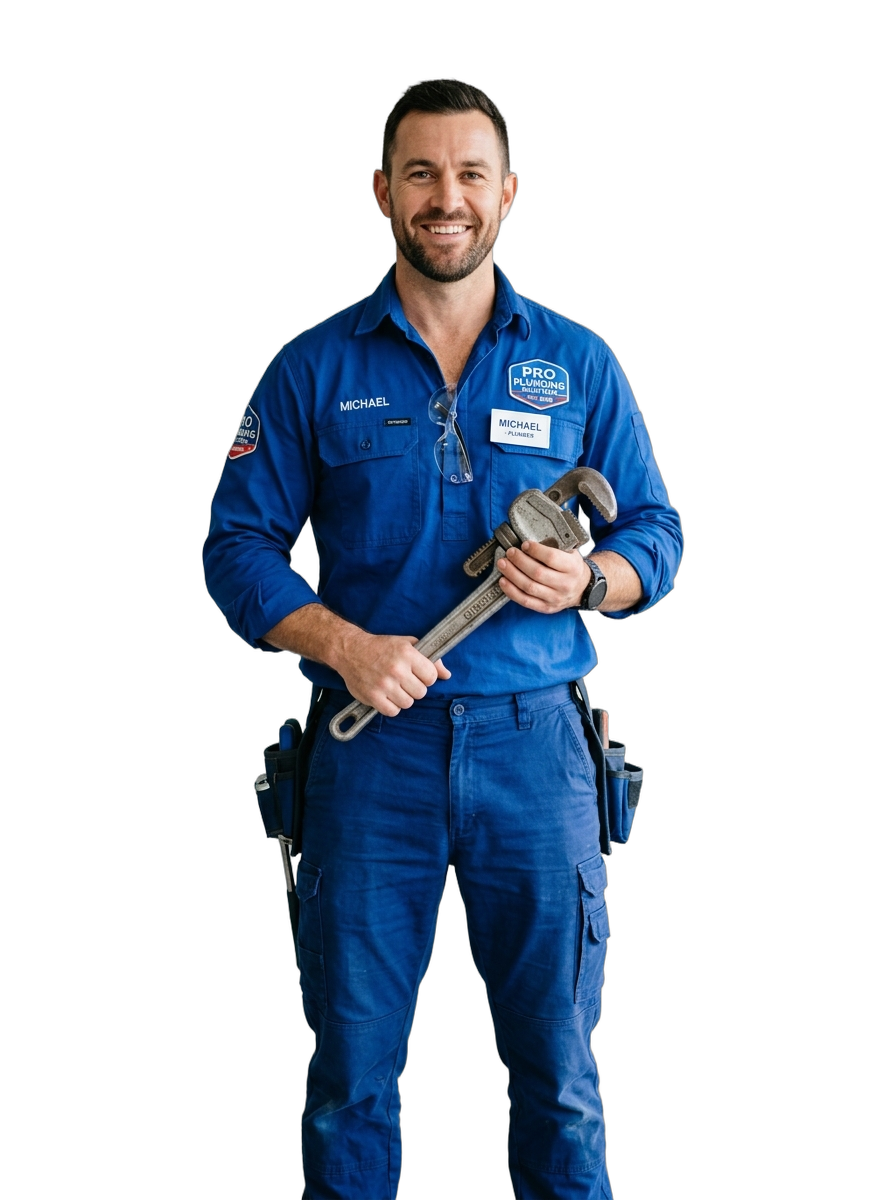
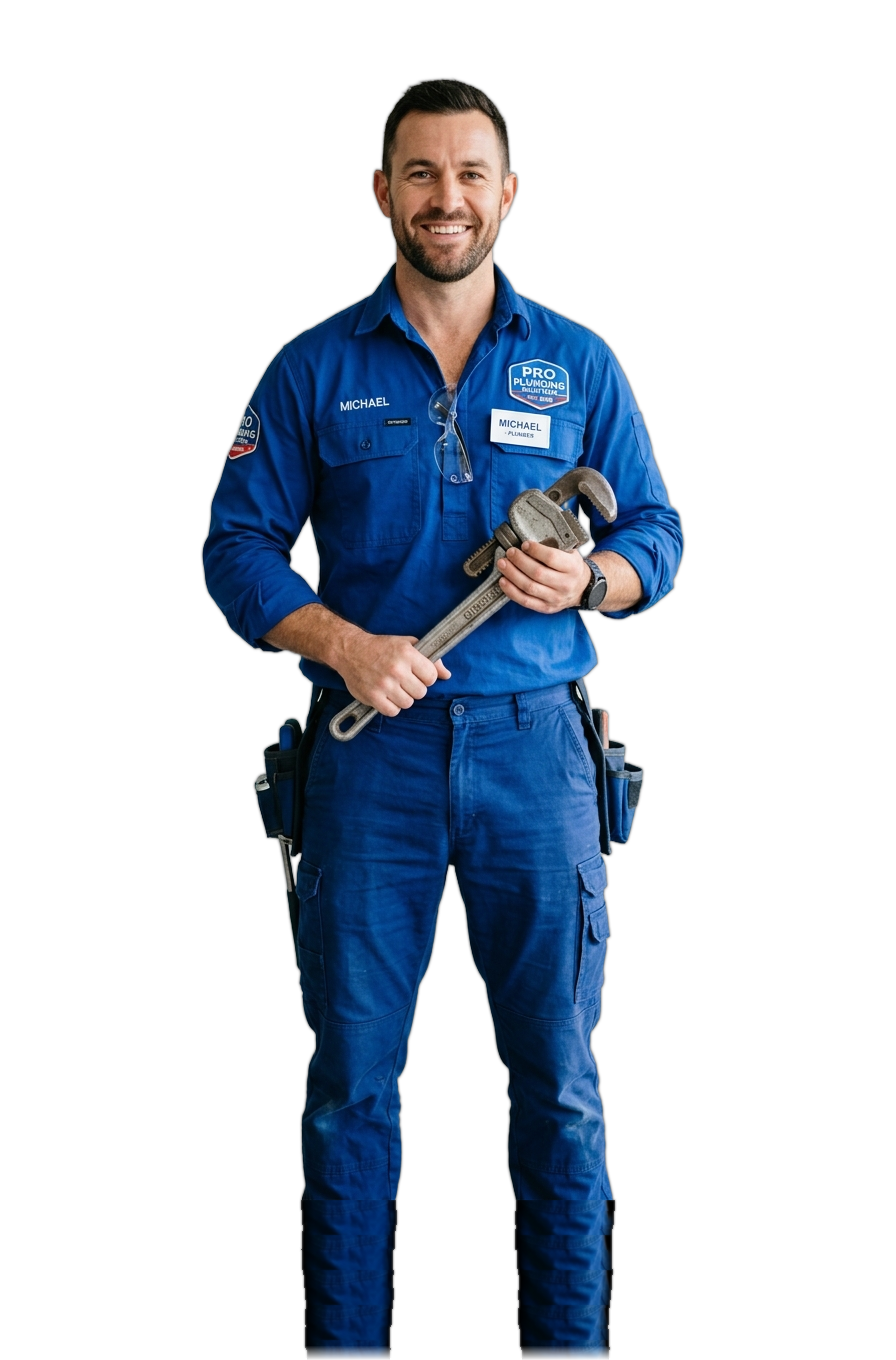
Fix hero plumber grounded layout and fully recreate shop hero fixture with responsive styling

Changed region(s): [[0.2188, 0.0308, 0.7812, 1.0]]

diff --git a/css/style.css b/css/style.css
@@ -382,23 +382,26 @@ button, input, select, textarea {
 .home-hero {
   position: relative;
   background: radial-gradient(circle at 75% 35%, #0e4c73 0%, #093751 55%, #052132 100%);
-  min-height: 600px;
+  min-height: 590px;
   display: flex;
-  align-items: center;
+  align-items: stretch;
   color: #ffffff;
-  padding: 50px 0 0;
+  padding: 40px 0 0;
   overflow: hidden;
 }
 
 .hero-grid {
   display: grid;
-  grid-template-columns: 1.1fr 1fr 1.1fr;
-  align-items: center;
+  grid-template-columns: 1.15fr 1fr 1.15fr;
+  align-items: stretch;
   gap: 20px;
+  width: 100%;
 }
 
 .hero-text-col {
   z-index: 2;
+  align-self: center;
+  padding: 20px 0 35px;
 }
 
 .hero-subtitle {
@@ -447,12 +450,20 @@ button, input, select, textarea {
   display: flex;
   justify-content: center;
   align-items: flex-end;
+  align-self: flex-end;
   z-index: 2;
+  margin-bottom: 0;
+  padding-bottom: 0;
+  line-height: 0;
+  position: relative;
 }
 
 .hero-plumber-img {
-  max-height: 540px;
-  object-fit: contain;
+  display: block;
+  max-height: 600px;
+  width: auto;
+  margin-bottom: 0;
+  vertical-align: bottom;
   filter: drop-shadow(0 15px 30px rgba(0, 0, 0, 0.4));
 }
 
@@ -460,6 +471,8 @@ button, input, select, textarea {
   z-index: 2;
   display: flex;
   justify-content: flex-end;
+  align-self: center;
+  padding: 20px 0 35px;
 }
 
 .hero-quote-card {
@@ -2310,24 +2323,41 @@ button, input, select, textarea {
    Shop Page
    ========================================================================== */
 .shop-hero-section {
-  background: linear-gradient(135deg, #093751 0%, #062b3f 100%);
+  background: radial-gradient(circle at 75% 45%, #0e4c73 0%, #093751 55%, #052132 100%);
   color: #ffffff;
-  padding: 50px 0;
+  padding: 60px 0 30px;
   position: relative;
   overflow: hidden;
 }
 
 .shop-hero-grid {
   display: grid;
-  grid-template-columns: 1fr 1fr;
-  gap: 30px;
+  grid-template-columns: 1.1fr 1fr;
+  gap: 36px;
   align-items: center;
 }
 
+.shop-hero-img-col {
+  display: flex;
+  justify-content: center;
+  align-items: center;
+  position: relative;
+  padding: 10px 0;
+}
+
 .shop-hero-toilet-img {
-  max-height: 380px;
+  display: block;
+  max-width: 100%;
+  width: auto;
+  max-height: 460px;
   object-fit: contain;
   margin: 0 auto;
+  filter: drop-shadow(0 20px 35px rgba(0, 0, 0, 0.4));
+  transition: transform 0.3s ease;
+}
+
+.shop-hero-toilet-img:hover {
+  transform: translateY(-4px) scale(1.01);
 }
 
 .btn-shop-hero {
@@ -3248,6 +3278,23 @@ button, input, select, textarea {
   .service1-expertise-grid, .repair-grid, .case-study-grid,
   .shop-hero-grid, .blog-grid-layout, .contact-grid, .price-cards-grid {
     grid-template-columns: 1fr;
+  }
+  .shop-hero-section {
+    padding: 40px 0 30px;
+    text-align: center;
+  }
+  .shop-hero-text h1 {
+    font-size: 34px !important;
+  }
+  .shop-hero-text div,
+  .shop-hero-text p {
+    margin-left: auto;
+    margin-right: auto;
+  }
+  .shop-hero-toilet-img {
+    max-height: 320px;
+    max-width: 90%;
+    margin-top: 15px;
   }
   .services-tab-layout {
     grid-template-columns: 1fr;

diff --git a/index.html b/index.html
@@ -5,7 +5,7 @@
   <meta name="viewport" content="width=device-width, initial-scale=1.0">
   <title>PlumberX - Professional Plumbing & Repair Services | Developed by Ztech Communication</title>
   <meta name="description" content="PlumberX provides certified commercial and residential plumbing services, 24/7 emergency pipe repair, leak detection, drain cleaning, and maintenance.">
-  <link rel="stylesheet" href="css/style.css">
+  <link rel="stylesheet" href="css/style.css?v=2028">
   <link rel="icon" type="image/png" href="assets/images/logo_clean.png?v=2027">
 </head>
 <body>
@@ -112,7 +112,7 @@
       </div>
 
       <div class="hero-plumber-col">
-        <img src="assets/images/home_hero_plumber.png?v=2027" alt="Expert Plumber" class="hero-plumber-img">
+        <img src="assets/images/home_hero_plumber.png?v=2028" alt="Expert Plumber" class="hero-plumber-img">
       </div>
 
       <div class="hero-form-col">

diff --git a/shop.html b/shop.html
@@ -5,7 +5,7 @@
   <meta name="viewport" content="width=device-width, initial-scale=1.0">
   <title>Plumbing Store - PlumberX | Site Development: Ztech Communication</title>
   <meta name="description" content="Shop professional plumbing tools, fittings, screwdriver sets, and safety gear with fast shipping and certified quality.">
-  <link rel="stylesheet" href="css/style.css">
+  <link rel="stylesheet" href="css/style.css?v=2028">
   <link rel="icon" type="image/png" href="assets/images/logo_clean.png?v=2027">
 </head>
 <body>
@@ -117,7 +117,7 @@
       </div>
 
       <div class="shop-hero-img-col">
-        <img src="assets/images/shop_hero_toilet_clean.png" alt="Featured Plumbing Products Fixtures" class="shop-hero-toilet-img">
+        <img src="assets/images/shop_hero_toilet_clean.png?v=2028" alt="Featured Plumbing Products Fixtures" class="shop-hero-toilet-img">
       </div>
     </div>
   </section>
